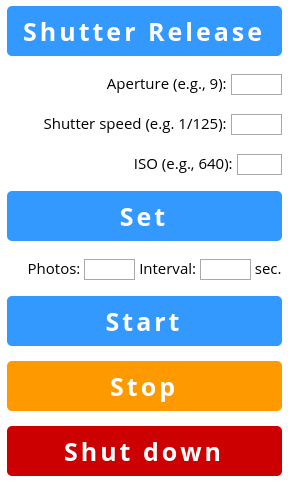
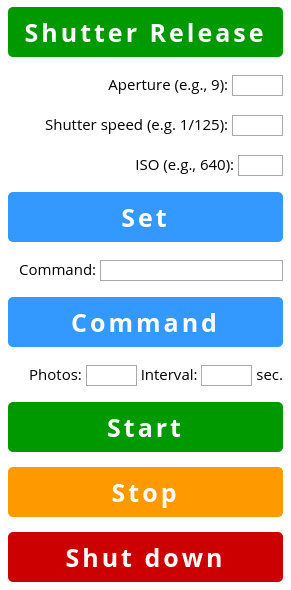
dn2820fykh-kubuntu

diff --git a/gphoto2-bottle.py b/gphoto2-bottle.py
@@ -14,7 +14,7 @@
 # along with this program.  If not, see <http://www.gnu.org/licenses/>.
 
 from bottle import post, route, request, run
-import os, time
+import os, time, urllib
 
 # Camera-specific parameters
 param1 = '/main/capturesettings/f-number=f/'
@@ -35,6 +35,9 @@ def release_control():
         os.system('gphoto2 --set-config-value ' + param2 + shutterspeed)
         iso = request.forms.get('iso')
         os.system('gphoto2 --set-config-value ' + param3 + iso)
+    if (request.POST.get("command")):
+        cmd = urllib.unquote_plus(request.forms.get('cmd'))
+        os.system('gphoto2 ' + cmd)
     if (request.POST.get("start")):
         number = int(request.forms.get('number'))
         interval = int(request.forms.get('interval'))
@@ -47,32 +50,35 @@ def release_control():
     <title>gPhoto2 Bottle</title>
     <meta name="viewport" content="width=device-width, initial-scale=1">
     <form method="POST" action="/">
-    <div id="content"><p><input id="btn" name="shutter_release" type="submit" value="Shutter Release"></p>
+    <div id="content"><p><input id="btn" class="green" name="shutter_release" type="submit" value="Shutter Release"></p>
     <p class="right">Aperture (e.g., 9): <input name="aperture" type="text" size="3"/></p>
     <p class="right">Shutter speed (e.g. 1/125): <input name="shutterspeed" type="text" size="3"/></p>
     <p class="right">ISO (e.g., 640): <input name="iso" type="text" size="2"/></p>
     <p><input id="btn" name="set-config" value="Set" type="submit" /></p>
+    <p class="right">Command: <input name="cmd" type="text" size="25"/></p>
+    <p><input id="btn" name="command" value="Command" type="submit" /></p>
     <p class="right">Photos: <input name="number" type="text" size="3"/> Interval: <input name="interval" type="text" size="3"/> sec.</p>
-    <p><input id="btn" name="start" value="Start" type="submit" /></p>
-    <p><input id="btn" class="stop" name="stop" value="Stop" type="submit" /></p>
-    <p><input id="btn" class="shutdown" name="shutdown" value="Shut down" type="submit" /></p>
+    <p><input id="btn" class="green" name="start" value="Start" type="submit" /></p>
+    <p><input id="btn" class="orange" name="stop" value="Stop" type="submit" /></p>
+    <p><input id="btn" class="red" name="shutdown" value="Shut down" type="submit" /></p>
     </form>
-    <p class="justify">Press <strong>Shutter Release</strong> for a single shot.</p>
-    <p class="justify">Use the approprite fields to specify aperture, shutter speed, and ISO values. Press <strong>Set</strong> to apply the settings.</p>
-    <p class="justify">Use the appropriate fields to specify the number of photos and the interval between them in seconds, then press <strong>Start</strong>.</p>
-    <p class="justify">Press <strong>Stop</strong> to terminate the app.</p>
-    <p class="justify">Press <strong>Shutdown</strong> to shut down the server.</p>
+    <p class="left">Press <strong>Shutter Release</strong> for a single shot.</p>
+    <p class="left">Use the approprite fields to specify aperture, shutter speed, and ISO values. Press <strong>Set</strong> to apply the settings.</p>
+    <p class="left">Use the appropriate fields to specify the number of photos and the interval between them in seconds, then press <strong>Start</strong>.</p>
+    <p class="left">To run a user-defined command, specify the desired command in the <em>Command</em> field and press the <strong>Command</strong> button.</p>
+    <p class="left">Press <strong>Stop</strong> to terminate the app.</p>
+    <p class="left">Press <strong>Shutdown</strong> to shut down the server.</p>
     </div>
     <style>
     <link href='http://fonts.googleapis.com/css?family=Open+Sans:400,600,700' rel='stylesheet' type='text/css'>
     body {
         font: 15px/25px 'Open Sans', sans-serif;
     }
-    p.justify {
-        text-align: justify;
+    p.left {
+        text-align: left;
     }
-        p.right {
-    text-align: right;
+    p.right {
+        text-align: right;
     }
     #content {
         font: 15px/25px 'Open Sans', sans-serif;
@@ -89,10 +95,13 @@ def release_control():
         letter-spacing: 3px;
         border:none;
     }
-    #btn.stop {
+    #btn.green {
+        background: #009900;
+    }
+    #btn.orange {
         background: #ff9900;
     }
-    #btn.shutdown {
+    #btn.red {
         background: #cc0000;
     }
     </style>
